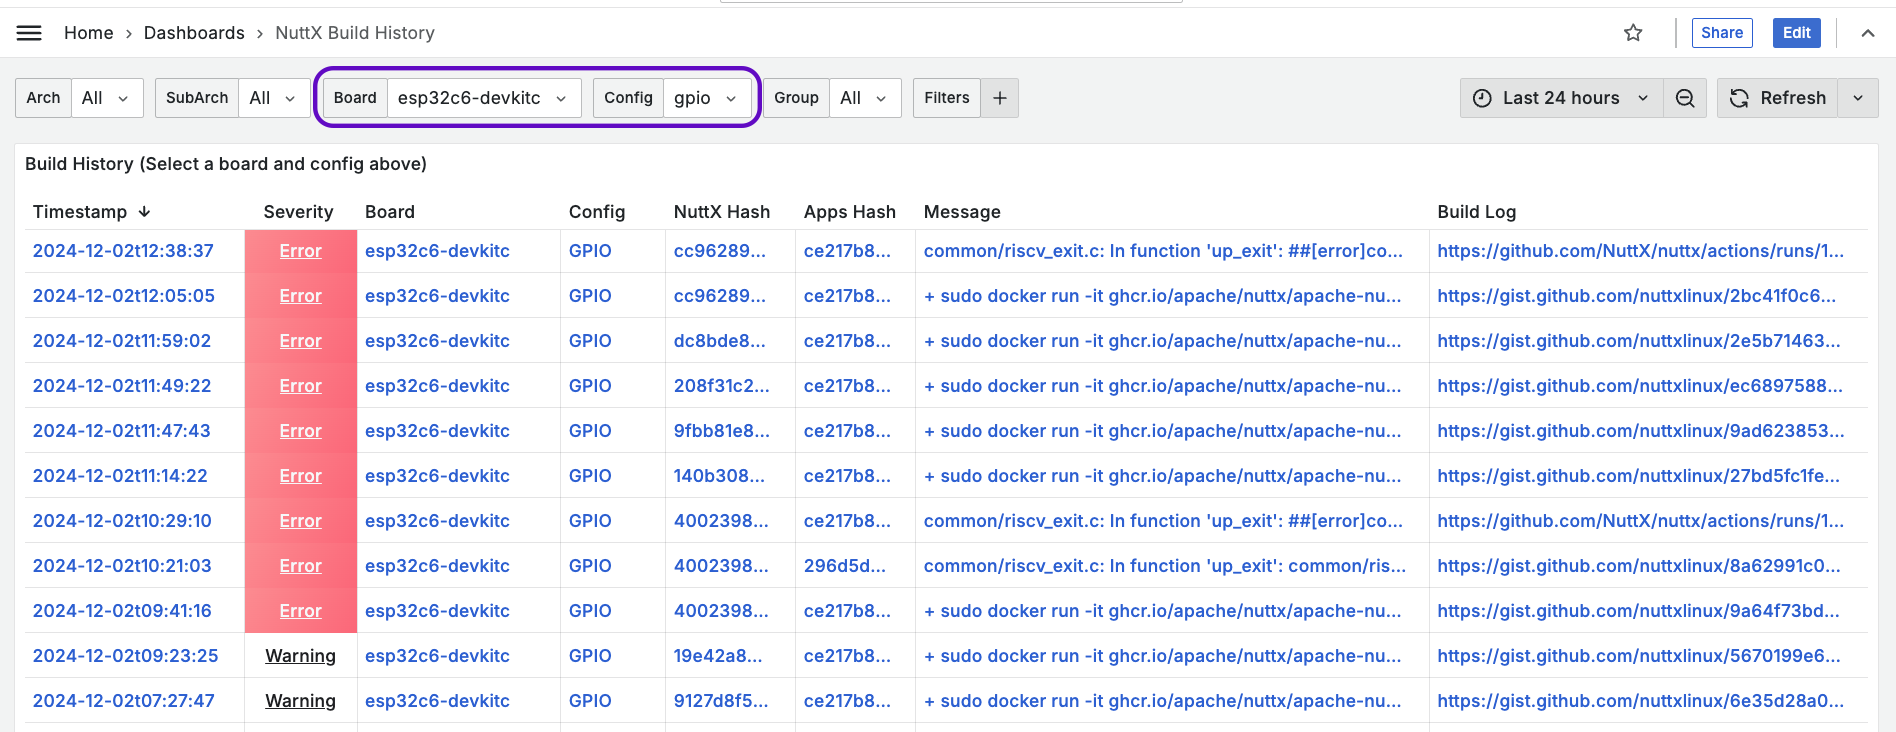
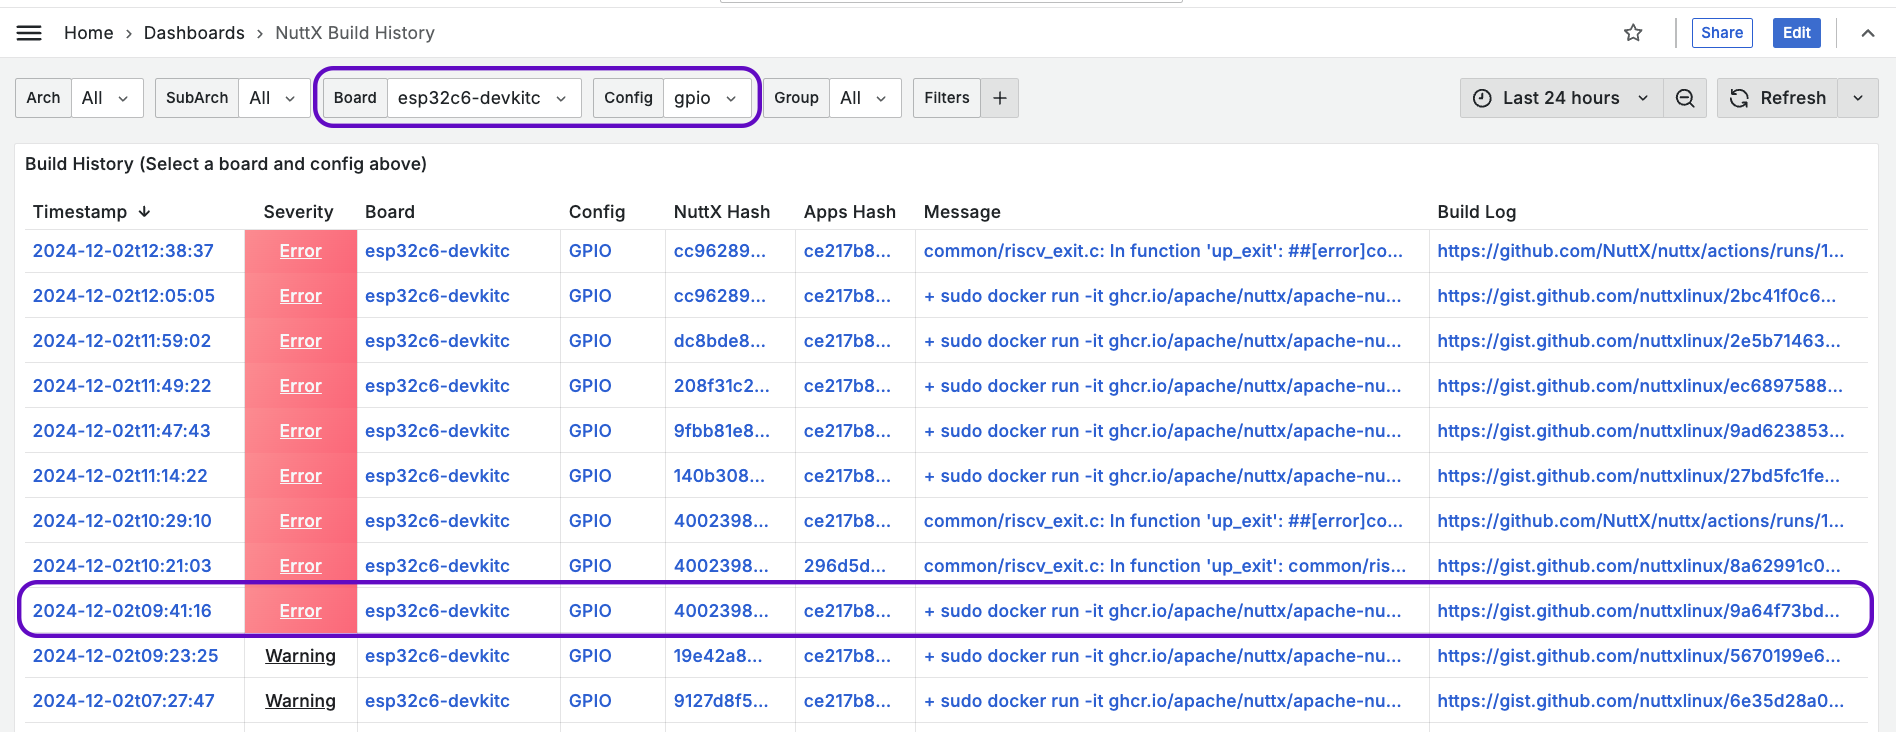
Update article

Changed region(s): [[0.0, 0.8415, 0.9958, 0.8716], [0.0, 0.7814, 0.9958, 0.8115]]

diff --git a/scripts/articles/ci6-header.html b/scripts/articles/ci6-header.html
@@ -3,10 +3,10 @@
     content="Rewinding a Build for Apache NuttX RTOS (Docker)" 
     data-rh="true">
 <meta property="og:description" 
-    content=""
+    content="When something breaks the Daily Build for Apache NuttX RTOS: Our NuttX Maintainers will scramble to identify the Breaking Commit. Not any more! Now we can go back in time and Rewind The Build."
     data-rh="true">
 <meta name="description" 
-    content="">
+    content="When something breaks the Daily Build for Apache NuttX RTOS: Our NuttX Maintainers will scramble to identify the Breaking Commit. Not any more! Now we can go back in time and Rewind The Build.">
 <meta property="og:image" 
     content="https://lupyuen.github.io/images/ci6-title.jpg">
 <meta property="og:type" 

diff --git a/src/ci6.md b/src/ci6.md
@@ -1,6 +1,6 @@
 # "Rewinding a Build" for Apache NuttX RTOS (Docker)
 
-📝 _24 Dec 2024_
+📝 _15 Dec 2024_
 
 !["Rewinding a Build" for Apache NuttX RTOS (Docker)](https://lupyuen.github.io/images/ci6-title.jpg)
 
@@ -42,7 +42,15 @@ Build Failed for Next Commit:
 
 In this article, we look inside our new tool to __Rewind The NuttX Build__...
 
-- TODO: Reveal the Breaking Commit (pic below)
+- How we run the __Rewind Build Script__
+
+- How the Breaking Commit appears in __NuttX Build History__ (pic below)
+
+- What's __inside our Rewind Script__
+
+- How we used to __Rewind Builds Manually__
+
+- Why we build __NuttX in Docker__
 
 ![NuttX Build History](https://lupyuen.github.io/images/ci6-history4a.png)
 
@@ -420,13 +428,13 @@ Finally we see the full picture, closing the loop with NuttX Repo, NuttX Build F
 
 _Phew that was quick for finding the Breaking Commit?_
 
-Yeah our Rewind Build Script took [__only one hour__](https://gist.github.com/lupyuen/0fe795089736c0ab33be2c965d0f4cf3#file-gistfile1-txt-L540-L8070) to find the Breaking Commit! Though fixing it took longer...
+Yeah our Rewind Build Script took [__only one hour__](https://gist.github.com/lupyuen/0fe795089736c0ab33be2c965d0f4cf3#file-gistfile1-txt-L540-L8070) to rewind 20 commits and isolate the Breaking Commit! Though fixing it took longer...
 
 - QEMU RISC-V crashed with an [__Instruction Page Fault__](https://github.com/apache/nuttx/pull/15014#issuecomment-2513466731)
 
 - Which we tracked down by [__Rewinding the Past 50 Commits__](https://github.com/lupyuen/nuttx-riscv64/blob/main/special-qemu-riscv-knsh.sh#L43-L59)
 
-- And testing [__Each Commit in QEMU RISC-V__](https://gist.github.com/lupyuen/74c74050683721f1bbbedb21e026ac6f#file-special-qemu-riscv-knsh-log-L1414)
+- And auto-testing [__Each Commit in QEMU RISC-V__](https://gist.github.com/lupyuen/74c74050683721f1bbbedb21e026ac6f#file-special-qemu-riscv-knsh-log-L1414)
 
 - Yep it's the same idea as Rewinding a Build! Just that we're (slowly) locating a __Runtime Fault__ instead of a (quicker) Compile Error
 
